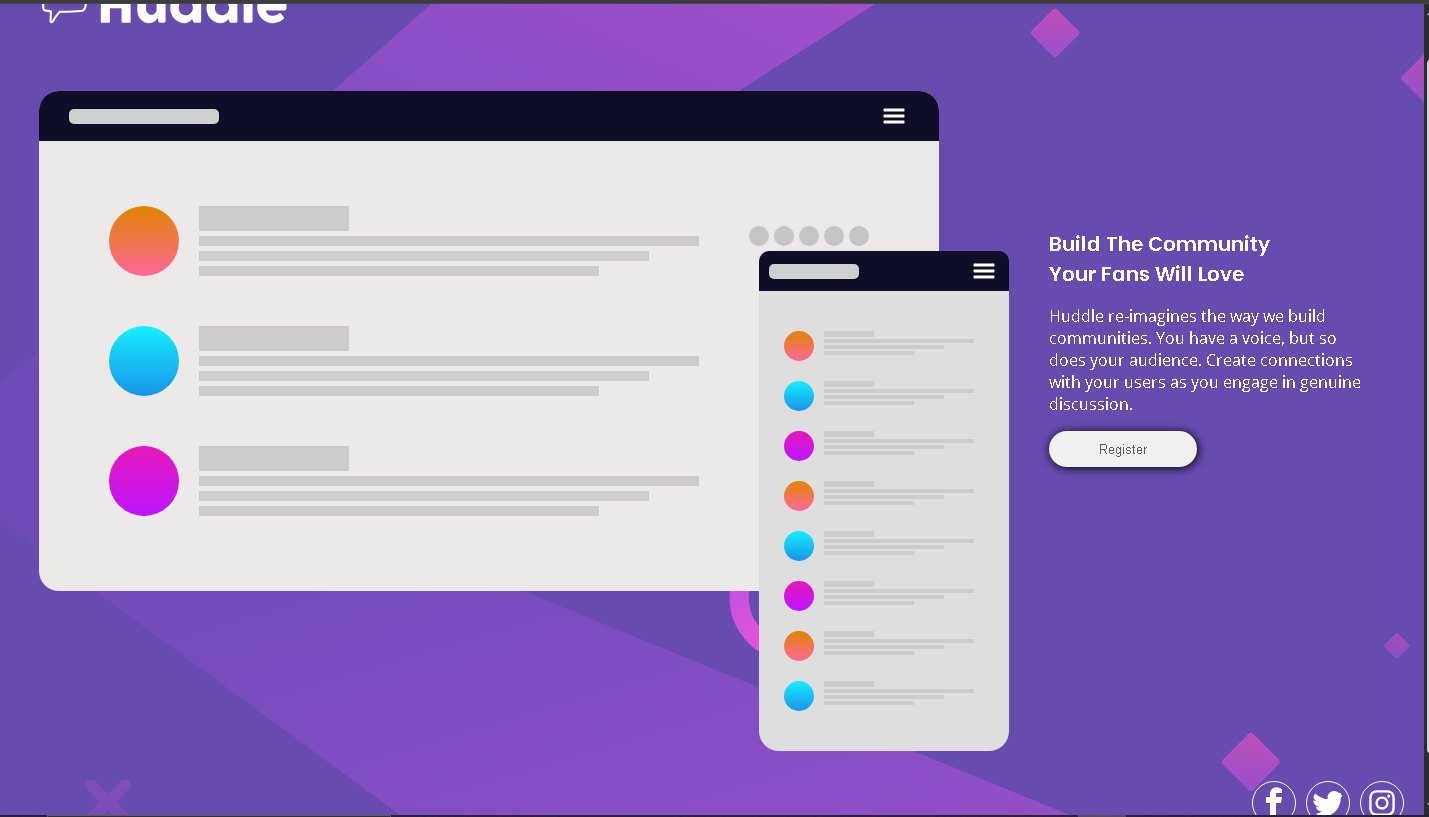
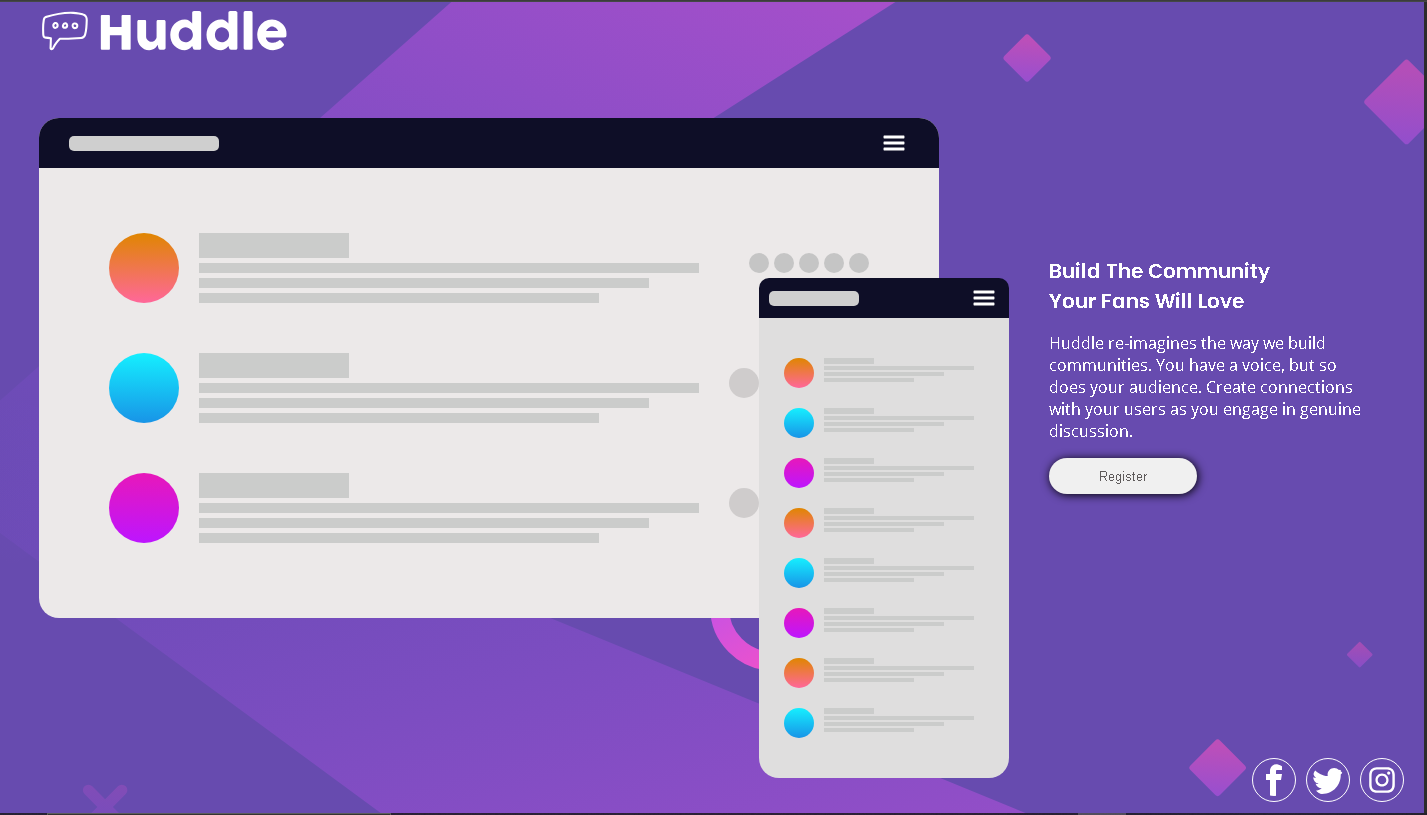
Committed few changes

diff --git a/index.html b/index.html
@@ -95,7 +95,11 @@
                 <div class="first-sub-div-grandchild">
                   <div class="profile-two"></div>
                   <div class="text-clones">
-                    <div class="one"></div>
+                    <div class="one">
+                      <div class="side-circle-container">
+                        <div class="side-circle"></div>
+                      </div>
+                    </div>
                     <div class="two"></div>
                     <div class="three"></div>
                     <div class="four"></div>
@@ -105,7 +109,11 @@
                 <div class="first-sub-div-grandchild">
                   <div class="profile-three"></div>
                   <div class="text-clones">
-                    <div class="one"></div>
+                    <div class="one">
+                      <div class="side-circle-container">
+                        <div class="side-circle"></div>
+                      </div>
+                    </div>
                     <div class="two"></div>
                     <div class="three"></div>
                     <div class="four"></div>
@@ -289,9 +297,10 @@
         >. Coded by <a href="#">Godson</a>.
       </p>
     </footer>
-  
+    <!--
     <script>
       alert("Welcome to my FrontEnd Mentor Challenge Solution");
     </script>
+    -->
   </body>
 </html>

diff --git a/style.css b/style.css
@@ -42,7 +42,6 @@ p {
 .first-sub-div {
   height: 500px;
   width: 900px;
-
   background-color: #ece9e9;
   border-radius: 20px;
   z-index: 1;
@@ -320,6 +319,21 @@ p {
   padding: 5px;
 }
 
+.side-circle {
+  width: 30px;
+  height: 30px;
+  border-radius: 100px;
+   margin-top: 15px;
+  background-color: rgb(207, 204, 204);
+}
+
+.side-circle-container {
+  display: flex;
+  position: absolute;
+  right: 230px;
+ 
+}
+
 @media (max-width: 768px) {
   body {
     background: url(./images/bg-mobile.svg);
@@ -593,5 +607,19 @@ p {
     border: 1px solid white;
     border-radius: 50px;
     padding: 5px;
+  }
+
+  .side-circle {
+    width: 20px;
+    height: 20px;
+    border-radius: 10px;
+    background-color: rgb(207, 207, 207);
+    margin-top: 0px;
+  }
+
+  .side-circle-container {
+    display: flex;
+    position: absolute;
+    right: 75px;
   }
 }
